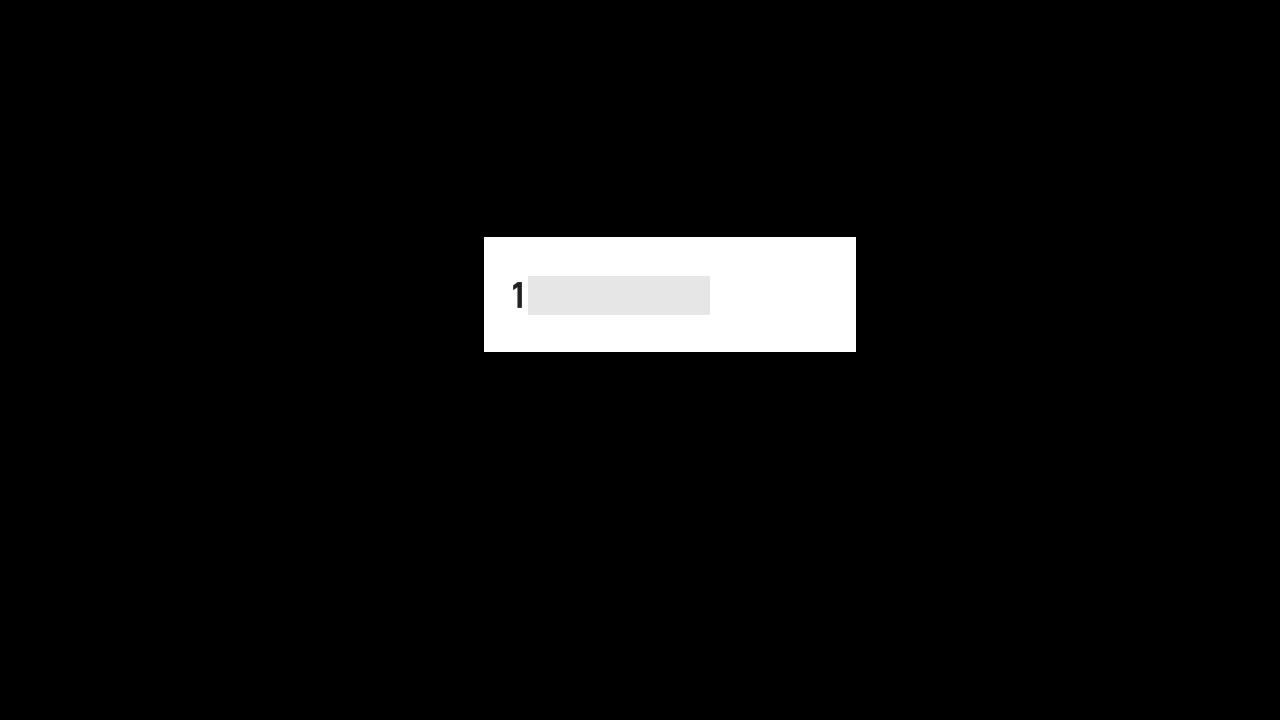
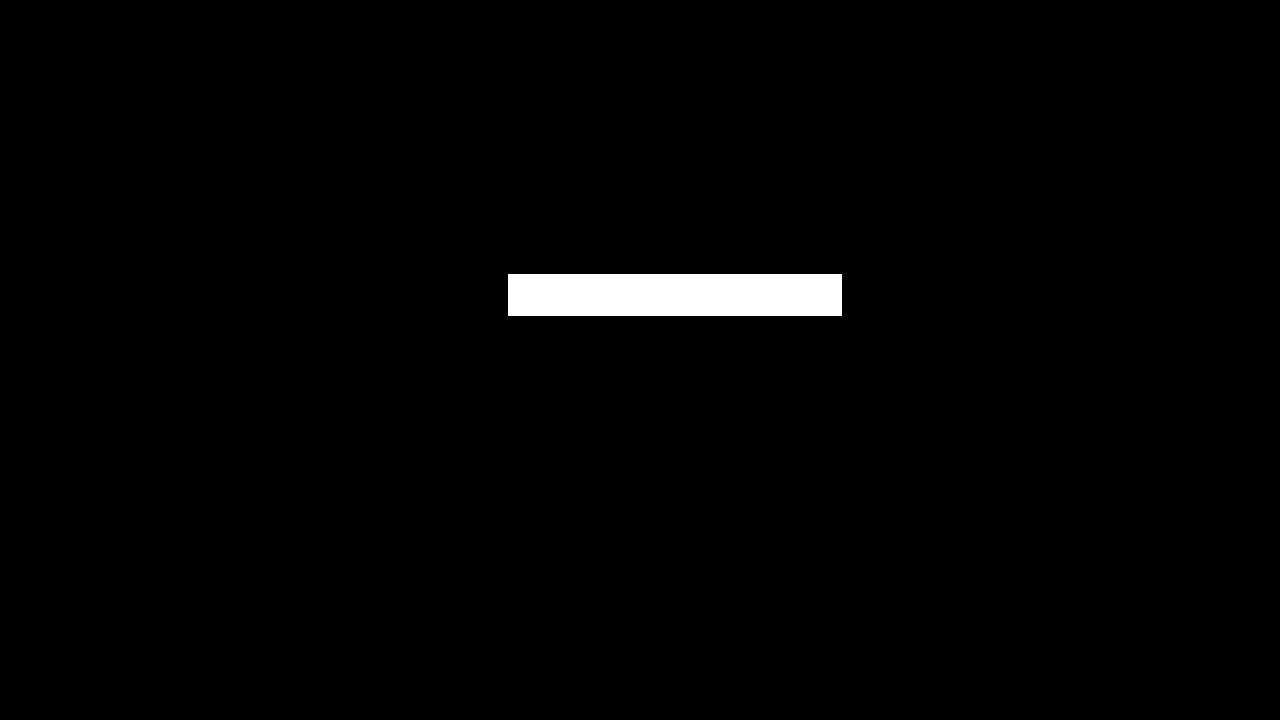
update asset CURRENT ACCOUNT

Changed region(s): [[0.375, 0.3056, 0.6875, 0.4889]]

diff --git a/tasks/login/assets/assets_login.py b/tasks/login/assets/assets_login.py
@@ -17,10 +17,10 @@ CURRENT_ACCOUNT = ButtonWrapper(
     name='CURRENT_ACCOUNT',
     share=Button(
         file='./assets/share/login/CURRENT_ACCOUNT.png',
-        area=(484, 237, 856, 352),
-        search=(464, 217, 876, 372),
-        color=(250, 250, 250),
-        button=(484, 237, 856, 352),
+        area=(508, 274, 842, 316),
+        search=(488, 254, 862, 336),
+        color=(255, 255, 255),
+        button=(508, 274, 842, 316),
     ),
 )
 GAME_INFO = ButtonWrapper(
